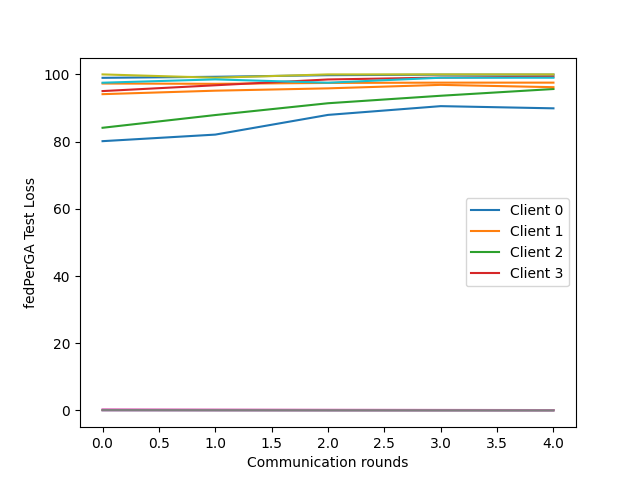
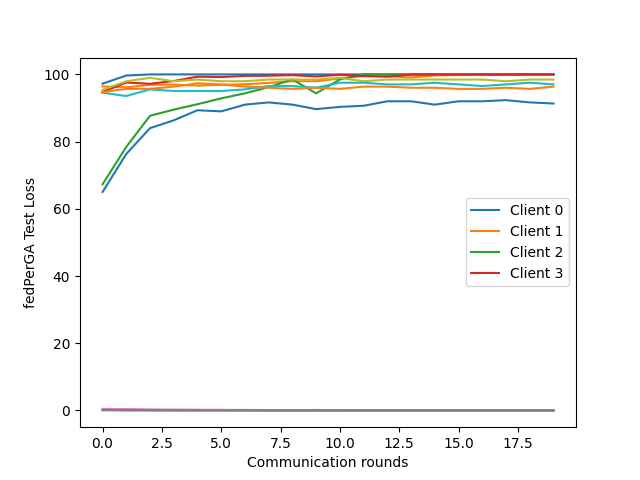
Update Graphes

diff --git a/utils/Plot.py b/utils/Plot.py
@@ -1,5 +1,8 @@
 import numpy as np
-import matplotlib.pyplot as plt
+import matplotlib.pyplot as plt1
+import matplotlib.pyplot as plt2
+import matplotlib.pyplot as plt3
+import matplotlib.pyplot as plt4
 
 
 
@@ -16,12 +19,12 @@ def accuracy_train (args, accTRAIN):
               
       
    #plt.ylim([0, 100])
-    plt.legend(['Client {}'.format(j) for j in range(args.num_users)])
-    plt.ylabel('{} Train Accuracy'.format(args.aggr))
-    plt.xlabel('Communication rounds')
-    plt.savefig('./save/{}_train_accuracy_{}.png'.format(args.aggr,args.iid))
+    plt1.legend(['Client {}'.format(j) for j in range(args.num_users)])
+    plt1.ylabel('{} Train Accuracy'.format(args.aggr))
+    plt1.xlabel('Communication rounds')
+    plt1.savefig('./save/{}_train_accuracy_{}.png'.format(args.aggr,args.iid))
     for j in range(args.num_users):
-           plt.plot(x,clients[j])
+           plt1.plot(x,clients[j])
 
     #plt.figure()
 
@@ -38,12 +41,12 @@ def loss_train (args, lossTRAIN):
               
       
     #plt.ylim([0, 100])
-    plt.legend(['Client {}'.format(j) for j in range(args.num_users)])
-    plt.ylabel('{} Train Loss'.format(args.aggr))
-    plt.xlabel('Communication rounds')
-    plt.savefig('./save/{}_train_loss_{}.png'.format(args.aggr,args.iid))
+    plt2.legend(['Client {}'.format(j) for j in range(args.num_users)])
+    plt2.ylabel('{} Train Loss'.format(args.aggr))
+    plt2.xlabel('Communication rounds')
+    plt2.savefig('./save/{}_train_loss_{}.png'.format(args.aggr,args.iid))
     for j in range(args.num_users):
-            plt.plot(x,clients[j])
+            plt2.plot(x,clients[j])
 
     #plt.figure()
 def accuracy_test (args, accTest):
@@ -58,13 +61,14 @@ def accuracy_test (args, accTest):
               
       
    #plt.ylim([0, 100])
-    plt.legend(['Client {}'.format(j) for j in range(args.num_users)])
-    plt.ylabel('{} Test Accuracy'.format(args.aggr))
-    plt.xlabel('Communication rounds')
-    plt.savefig('./save/{}_test_accuracy_{}.png'.format(args.aggr,args.iid))
+    plt3.legend(['Client {}'.format(j) for j in range(args.num_users)])
+    plt3.ylabel('{} Test Accuracy'.format(args.aggr))
+    plt3.xlabel('Communication rounds')
+    plt3.savefig('./save/{}_test_accuracy_{}.png'.format(args.aggr,args.iid))
     for j in range(args.num_users):
-           plt.plot(x,clients[j])
+           plt3.plot(x,clients[j])
     #plt.figure()
+
 def loss_test (args, lossTest):
     clients=[[0 for _ in range(args.epochs)] for _ in range(args.num_users)]
 
@@ -77,14 +81,14 @@ def loss_test (args, lossTest):
               
       
     #plt.ylim([0, 100])
-    plt.legend(['Client {}'.format(j) for j in range(args.num_users)])
-    plt.ylabel('{} Test Loss'.format(args.aggr))
-    plt.xlabel('Communication rounds')
-    plt.savefig('./save/{}_test_loss_{}.png'.format(args.aggr,args.iid))
+    plt4.legend(['Client {}'.format(j) for j in range(args.num_users)])
+    plt4.ylabel('{} Test Loss'.format(args.aggr))
+    plt4.xlabel('Communication rounds')
+    plt4.savefig('./save/{}_test_loss_{}.png'.format(args.aggr,args.iid))
     
         
     for j in range(args.num_users):
-           plt.plot(x,clients[j])
+           plt4.plot(x,clients[j])
 
     #plt.figure()
 

diff --git a/utils/Graph.py b/utils/Graph.py
@@ -1,0 +1,44 @@
+import matplotlib.pyplot as plt 
+import numpy as np 
+import math 
+
+
+
+
+def Plot_Graphes (args, accTrain,accTest,lossTrain,lossTest):
+    clients_accuracy_train=[[0 for _ in range(args.epochs)] for _ in range(args.num_users)]
+    clients_accuracy_test=[[0 for _ in range(args.epochs)] for _ in range(args.num_users)] 
+    clients_loss_train=[[0 for _ in range(args.epochs)] for _ in range(args.num_users)]
+    clients_loss_test=[[0 for _ in range(args.epochs)] for _ in range(args.num_users)]
+
+    figure, axis = plt.subplots(2, 2) 
+    epochs = np.arange(0, args.epochs)
+    for i in range(args.epochs):
+      for j in range(args.num_users):
+        clients_accuracy_train[j][i]= accTrain[i][j] 
+        clients_accuracy_test[j][i]= accTest[i][j] 
+        clients_loss_train[j][i]= lossTrain[i][j] 
+        clients_loss_test[j][i]= lossTest[i][j] 
+
+    for i in range(args.num_users):
+
+  
+      axis[0, 0].plot( epochs,clients_accuracy_train[i] ) 
+      axis[0, 0].set_title("Train Accuracy") 
+      axis[0, 0].legend(['Client {}'.format(j) for j in range(args.num_users)])
+  
+      axis[0, 1].plot(epochs,  clients_loss_train[i]) 
+      axis[0, 1].set_title("Train Loss") 
+      axis[0, 1].legend(['Client {}'.format(j) for j in range(args.num_users)])
+  
+      axis[1, 0].plot(epochs, clients_accuracy_test[i]) 
+      axis[1, 0].set_title("Test Accuracy") 
+      axis[1, 0].legend(['Client {}'.format(j) for j in range(args.num_users)])
+   
+      axis[1, 1].plot(epochs,  clients_loss_test[i]) 
+      axis[1, 1].set_title("Test Loss") 
+      axis[1, 1].legend(['Client {}'.format(j) for j in range(args.num_users)])
+
+
+    plt.savefig('./save/FedGAPer_30.png')
+    plt.show() 

diff --git a/Server.py b/Server.py
@@ -1,6 +1,6 @@
 #!/usr/bin/env python
 # -*- coding: utf-8 -*-
-# Python version: 3.6
+# Python version: 3.10
 # https://pytorch.org/vision/stable/datasets.html
 
 import matplotlib
@@ -12,9 +12,8 @@ from torch.utils.data import DataLoader
 from Entities.Edge import Edge
 from utils.create_MNIST_datasets import get_FashionMNIST, get_MNIST
 from Entities.Cloud import Cloud
-from utils.Plot import accuracy_test, accuracy_train, loss_test, loss_train
-from torchvision import datasets
-from torchvision import transforms
+#from utils.Plot import accuracy_test, accuracy_train, loss_test, loss_train
+from utils.Graph import Plot_Graphes
 from tabulate import tabulate
 import time
 
@@ -127,10 +126,12 @@ if __name__ == '__main__':
     col=['Client {}'.format(j) for j in range(len(dict_users))]
     print(tabulate(row, headers=col, tablefmt="fancy_grid"))
 
-    accuracy_train(args,accuracy_locals_train)
-    loss_train(args,loss_locals_train)
-    accuracy_test(args,accuracy_locals_test)
-    loss_test(args,loss_locals_test)
+    Plot_Graphes(args,accuracy_locals_train,accuracy_locals_test,loss_locals_train,loss_locals_test)
+
+    #accuracy_train(args,accuracy_locals_train)
+    #loss_train(args,loss_locals_train)
+    #accuracy_test(args,accuracy_locals_test)
+    #loss_test(args,loss_locals_test)
 
 
   

diff --git a/Entities/Cloud.py b/Entities/Cloud.py
@@ -62,9 +62,9 @@ class Cloud(object):
 
              self.weights_global=FedPer(self.weights_locals, self.global_model)
 
-             self.weights_previous=self.global_model.state_dict()
-             self.weights_previous.update(self.weights_global)
-             self.weights_global= self.weights_previous
+             #self.weights_previous=self.global_model.state_dict()
+             #self.weights_previous.update(self.weights_global)
+             #self.weights_global= self.weights_previous
 
         elif (self.method_name=='fedPerGA'):
             
